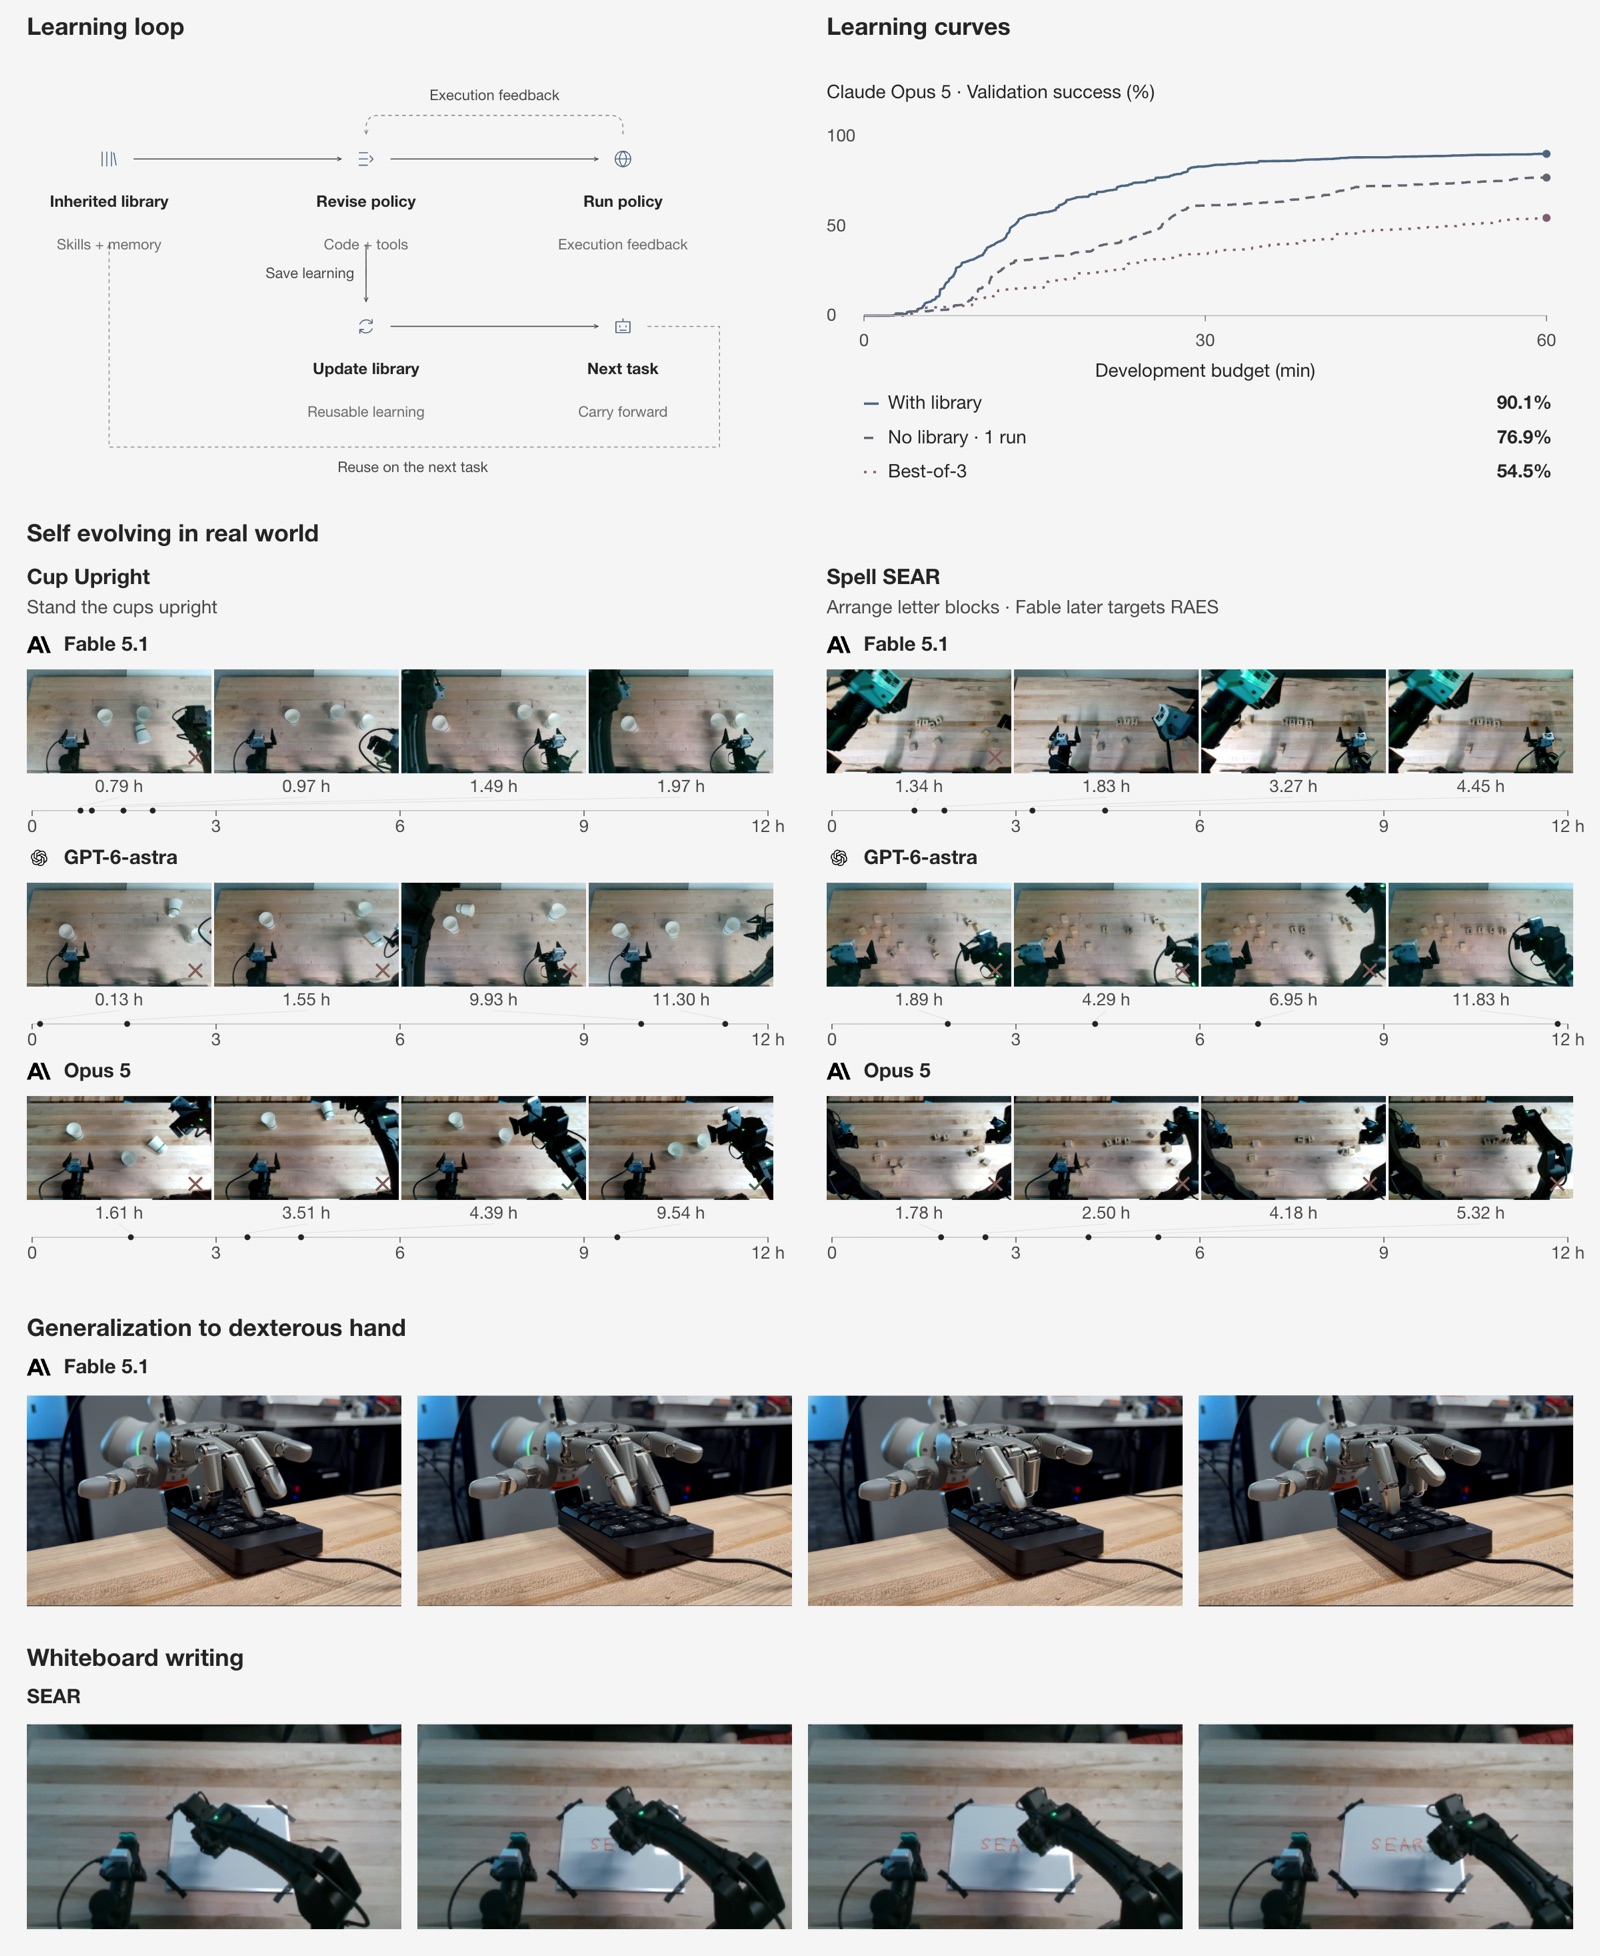
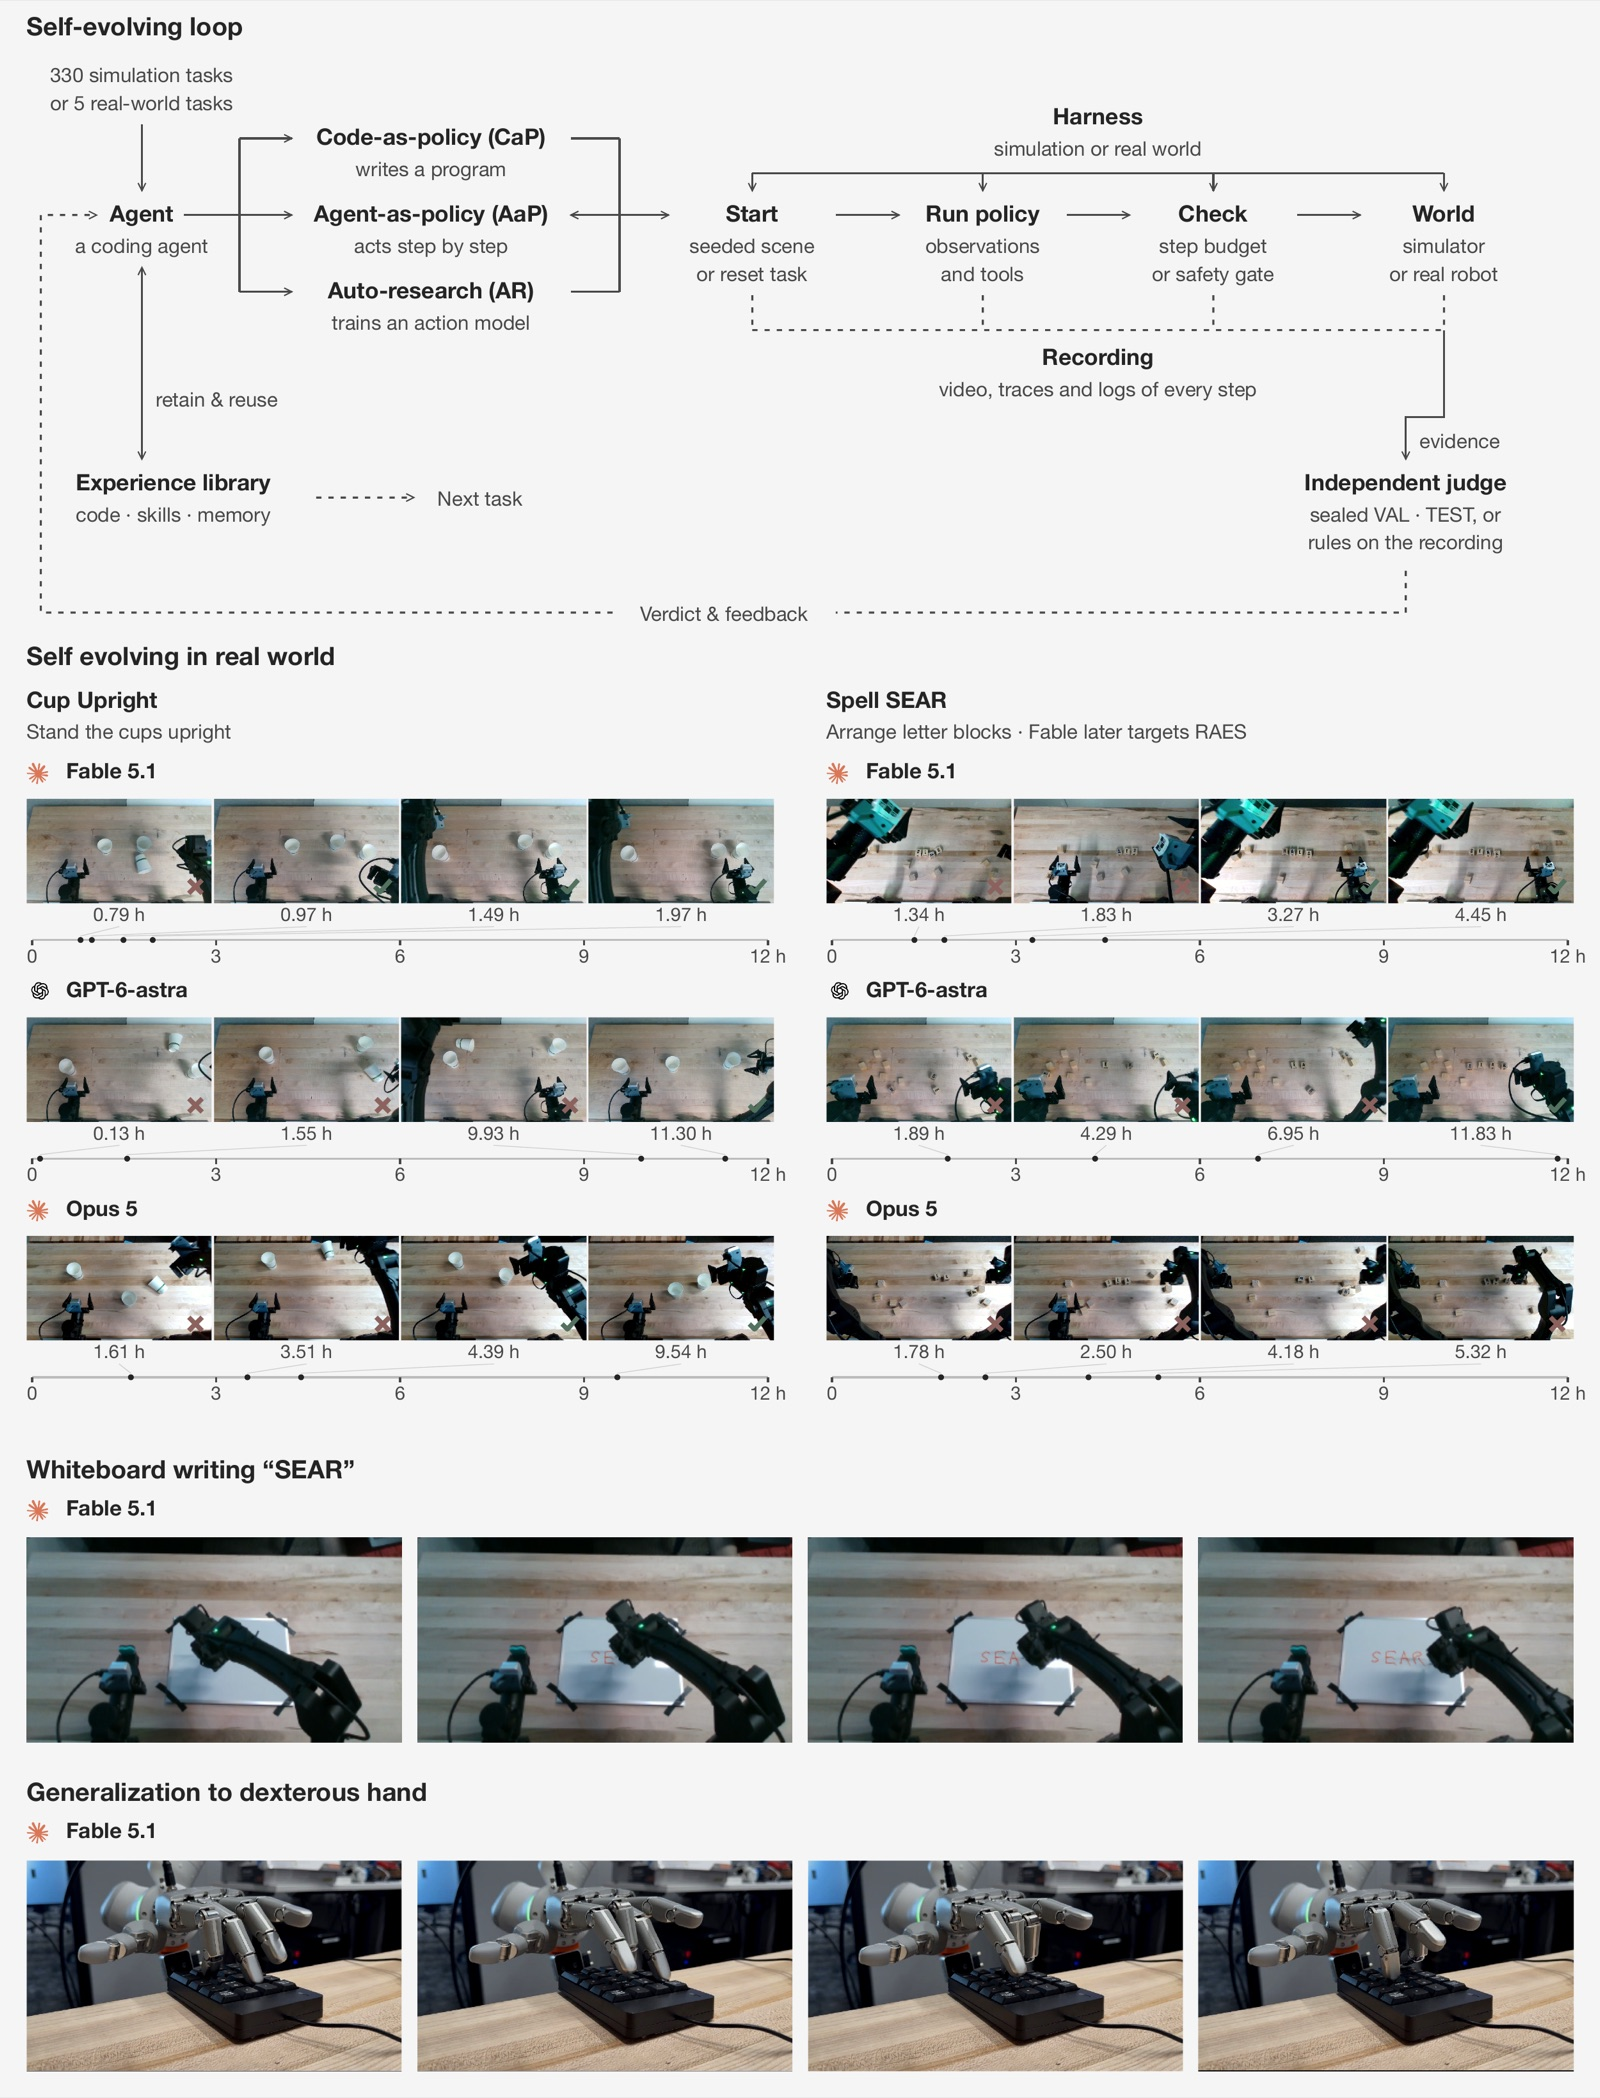
Update README teaser to the new Figure 1

diff --git a/README.md b/README.md
@@ -32,7 +32,7 @@
 > **The code is on its way.** Watch or star the repo to get notified when it lands.
 
 <p align="center">
-  <img src="assets/teaser.jpg" alt="SEAR learning loop, validation curves, and real-robot self-evolution sequences" width="100%">
+  <img src="assets/teaser.jpg" alt="SEAR self-evolving loop and harness, with real-robot self-evolution sequences, whiteboard writing, and a dexterous hand" width="100%">
 </p>
 
 ## Overview
